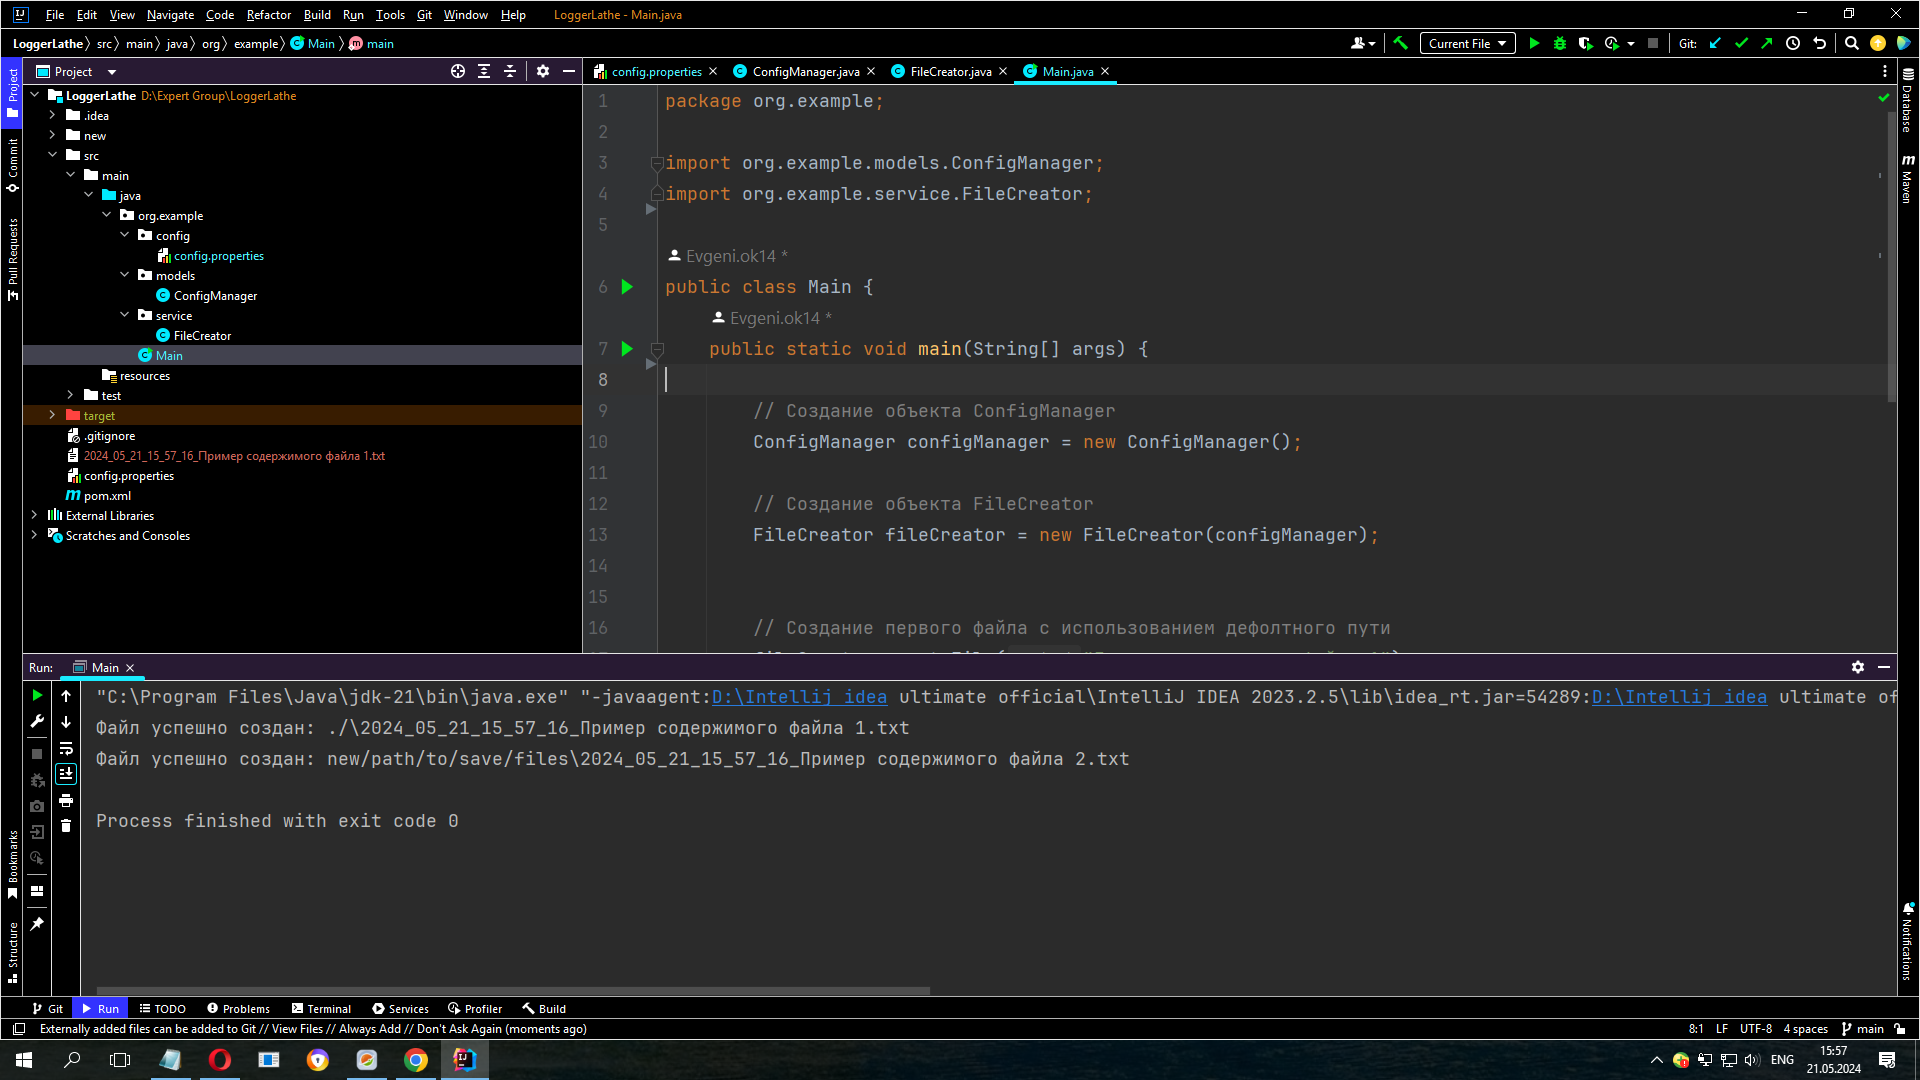
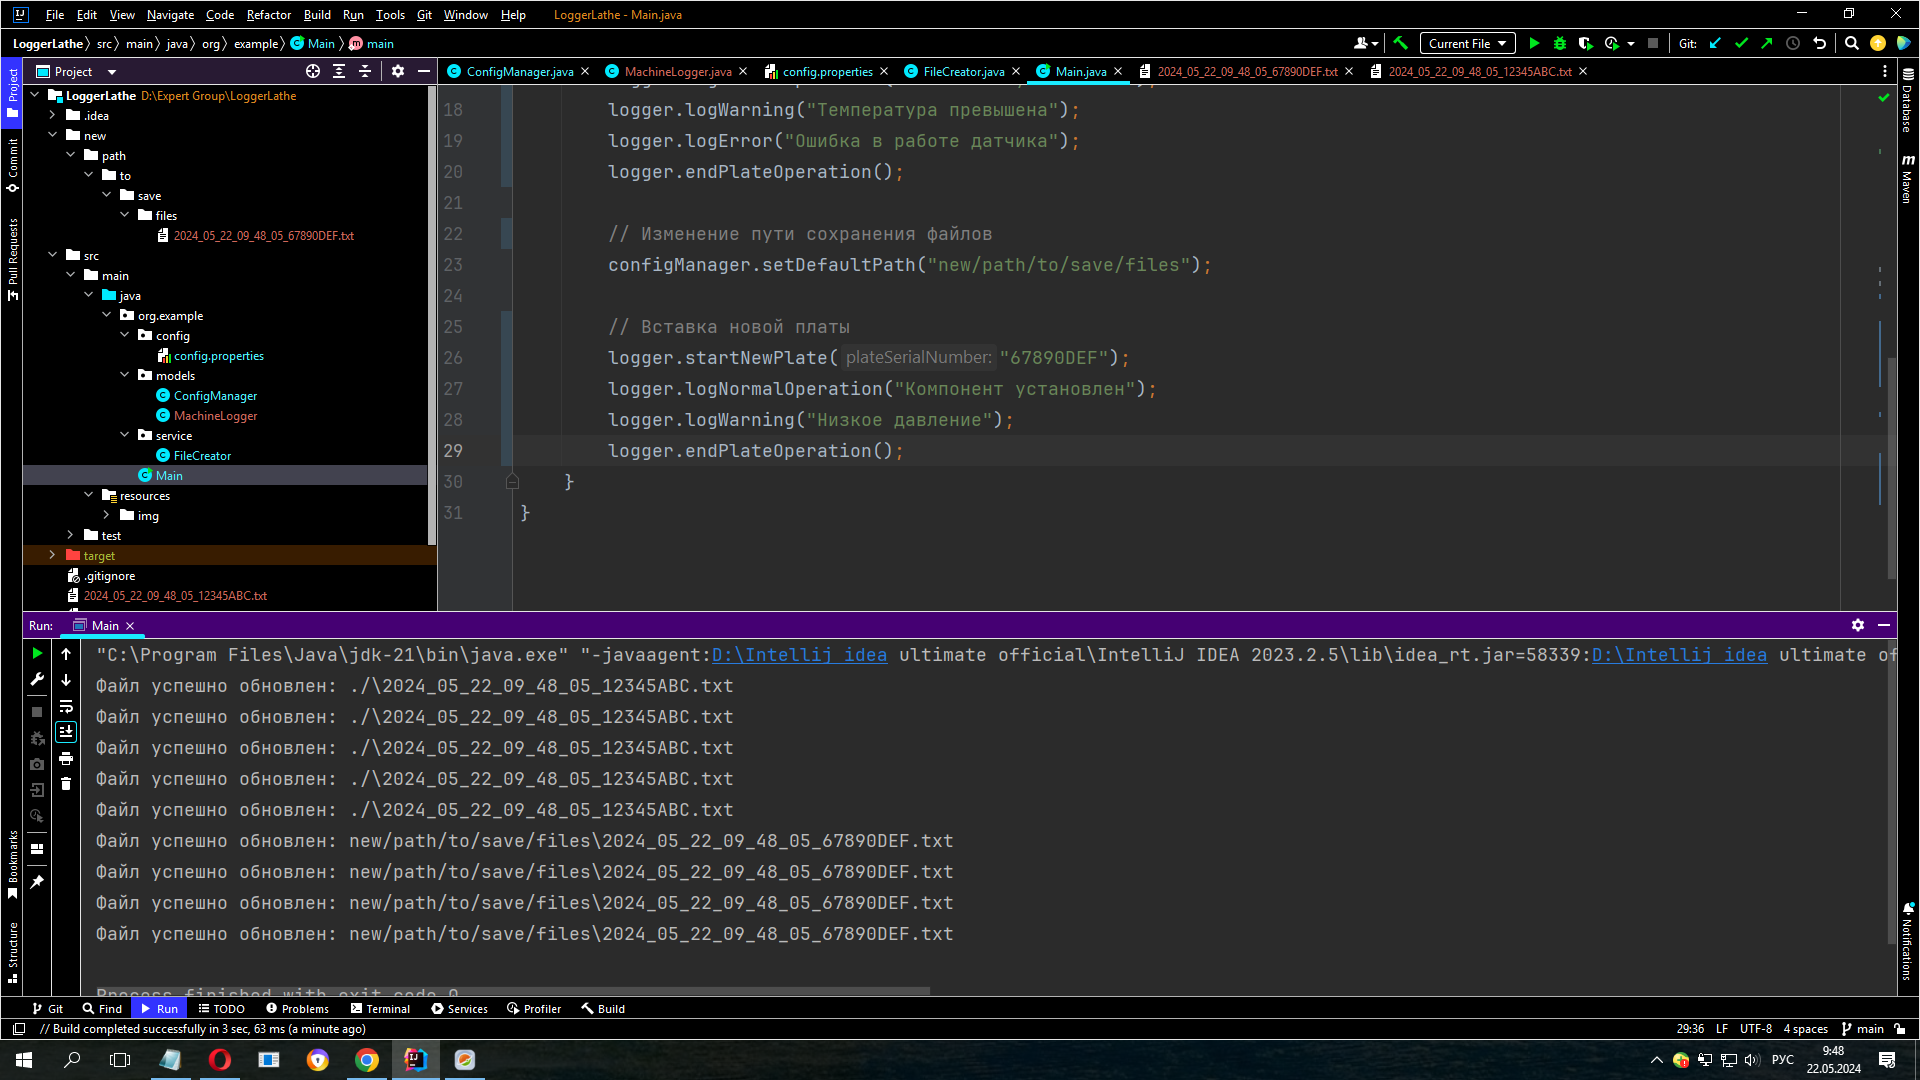
Logger Board

diff --git a/LoggerLathe/src/main/java/org/example/models/MachineLogger.java b/LoggerLathe/src/main/java/org/example/models/MachineLogger.java
@@ -1,0 +1,74 @@
+package org.example.models;
+
+import org.example.service.FileCreator; // импорт класса FileCreator
+import java.time.LocalDateTime; // библиотека представляет дату и время без часового пояса
+import java.time.format.DateTimeFormatter; // библиотека для форматирования и парсинга объектов даты и времени,
+                                          // позволяет преобразовывать объекты даты и времени в строковые представления
+                                         // и обратно.
+
+/** Класс для логирования работы станка **/
+public class MachineLogger
+{
+    //region Fields
+    private FileCreator fileCreator; // отвечает за создание и запись файлов.
+    private String currentFileName; // Строка, которая хранит имя текущего файла для логирования.
+                                   // Имя файла включает временную метку и серийный номер платы.
+    //endregion
+
+    //region Constructor
+    public MachineLogger(FileCreator fileCreator)
+    {
+        this.fileCreator = fileCreator;
+    }
+    //endregion
+
+    /** метод начала работы с платой **/
+    public void startNewPlate(String plateSerialNumber) //  передаём параметр - серийный номер платы
+    {
+        LocalDateTime now = LocalDateTime.now(); // получаем текущую дату и время
+        DateTimeFormatter formatter = DateTimeFormatter.ofPattern("yyyy_MM_dd_HH_mm_ss"); // создаём объект LocalDateTime с конкретной датой и временем
+
+        String timestamp = now.format(formatter); // форматируем эти данные в строку
+
+        currentFileName = timestamp + "_" + plateSerialNumber + ".txt"; // Создает имя файла, включающее временную метку и серийный номер платы
+        log("Плата установлена: " + plateSerialNumber + " Время: " + timestamp); // Логирует сообщение о том, что плата установлена, вызывая метод log
+    }
+
+    /** метод логирует сообщение о штатной работе **/
+    public void logNormalOperation(String message)
+    {
+        log("INFO: " + message);
+    }
+
+    /** метод логирует предупреждающие сообщения **/
+    public void logWarning(String message)
+    {
+        log("WARNING: " + message);
+    }
+
+    /** метод логирует сообщения об ошибках **/
+    public void logError(String message)
+    {
+        log("ERROR: " + message);
+    }
+
+    /** метод логирует сообщение о завершении работы с платой **/
+    public void endPlateOperation()
+    {
+        log("Операция завершена");
+        currentFileName = null; // сбрасываем значение currentFileName на null, чтобы указать, что работа с текущей платой завершена
+    }
+
+    /** метод выполняет непосредственную запись логов в файл **/
+    private void log(String message)
+    {
+        if (currentFileName != null) // если значение currentFileName установлено, то:
+        {
+            fileCreator.createFile(currentFileName, message); // вызывает метод createFile объекта fileCreator, передавая имя файла и сообщение для записи
+        }
+        else // если значение currentFileName не установлено, то:
+        {
+            System.err.println("Не установлена текущая плата для логирования"); // выводит сообщение об ошибке в консоль
+        }
+    }
+}

diff --git a/LoggerLathe/src/main/java/org/example/models/ConfigManager.java b/LoggerLathe/src/main/java/org/example/models/ConfigManager.java
@@ -5,26 +5,29 @@ import java.io.FileOutputStream;
 import java.io.IOException;
 import java.util.Properties;
 
+/** Класс управление конфигурацией **/
 public class ConfigManager
 {
-
     //region Fields
-    private static final String CONFIG_FILE = "D:/Expert Group/LoggerLathe/src/main/java/org/example/config/config.properties"; // Определение константы, которая содержит имя конфигурационного файла
 
-    private Properties properties;  // Properties в Java — это класс, который является частью стандартной библиотеки
-                                   // Java (java.util.Properties)
-                                  // Он представляет собой подкласс Hashtable
-                                 // и используется для сохранения пар ключ-значение,
-                                // где и ключи, и значения являются строками.
-                               // Этот класс широко используется для хранения конфигурационных параметров
-                              // и для загрузки этих параметров из файлов свойств (properties files)
+    // Определение константы, которая содержит имя конфигурационного файла
+    private static final String CONFIG_FILE = "D:/Expert Group/LoggerLathe/src/main/java/org/example/config/config.properties";
+
+    // Properties в Java — это класс, который является частью стандартной библиотеки Java (java.util.Properties)
+    private Properties properties; // Он представляет собой подкласс Hashtable и используется для сохранения пар ключ-значение
+                                   // где и ключи, и значения являются строками.
+                                   // Этот класс широко используется для хранения конфигурационных параметров
+                                   // и для загрузки этих параметров из файлов свойств (properties files)
     //endregion
+
     //region Constructor
+
     public ConfigManager() //  Конструктор класса
     {
         properties = new Properties(); // Инициализация объекта Properties.
         loadProperties(); //  Вызов метода loadProperties, который загружает конфигурационные параметры из файла.
     }
+
     //endregion
 
     /** метод загружает свойства из файла **/
@@ -44,8 +47,8 @@ public class ConfigManager
     public String getDefaultPath()
     {
         return properties.getProperty("default.path", "./"); // Возвращение значения свойства default.path
-                                                                          // Если свойство не найдено,
-                                                                         // возвращается значение по умолчанию ("./").
+                                                                           // Если свойство не найдено,
+                                                                           // возвращается значение по умолчанию ("./").
     }
 
     /** метод  задает значение свойства default.path  **/

diff --git a/LoggerLathe/src/main/java/org/example/service/FileCreator.java b/LoggerLathe/src/main/java/org/example/service/FileCreator.java
@@ -5,9 +5,8 @@ import java.io.BufferedWriter;
 import java.io.File;
 import java.io.FileWriter;
 import java.io.IOException;
-import java.time.LocalDateTime;
-import java.time.format.DateTimeFormatter;
 
+/** Класс создание файла **/
 public class FileCreator
 {
     //region Fields
@@ -22,38 +21,27 @@ public class FileCreator
     //endregion
 
     /** метод создания файла с заданным содержимым **/
-    public void createFile(String content)
-    {
-
-        LocalDateTime now = LocalDateTime.now(); // Получаем текущую дату и время
-
-        // Форматируем дату и время в строку
-        DateTimeFormatter formatter = DateTimeFormatter.ofPattern("yyyy_MM_dd_HH_mm_ss"); // Создает объект DateTimeFormatter
-                                                                                         // для форматирования даты и времени
-                                                                                        // в строку определенного формата
-                                                                                       // (yyyy_MM_dd_HH_mm_ss).
-        String timestamp = now.format(formatter); // Форматирует текущую дату и время в строку timestamp.
-
-        String defaultPath = configManager.getDefaultPath();  // получаем дефолтный путь из конфигурации
-
-        File directory = new File(defaultPath); // Создает объект File, представляющий директорию по этому пути
-
-        if (!directory.exists()) // Проверяет, существует ли директория
+        public void createFile(String fileName, String content)
         {
-            directory.mkdirs();// если нет, создает все необходимые поддиректории
-        }
+            String defaultPath = configManager.getDefaultPath();
+            File directory = new File(defaultPath);
 
-        String fileName = defaultPath + File.separator + timestamp + "_" + content + ".txt";  // Создаем имя файла
+            if (!directory.exists())
+            {
+                directory.mkdirs();
+            }
 
-        try (BufferedWriter writer = new BufferedWriter(new FileWriter(fileName))) { // Записываем строку в файл
-            writer.write("Дата и время создания файла: " + timestamp);
-            writer.newLine(); // Переход на новую строку
-            writer.write(content); // запись содержимого в файл
-            System.out.println("Файл успешно создан: " + fileName); // вывод в терминал, для проверки
-        }
-        catch (IOException e)
-        {
-            System.err.println("Произошла ошибка при создании файла: " + e.getMessage());
+            String filePath = defaultPath + File.separator + fileName;
+
+            try (BufferedWriter writer = new BufferedWriter(new FileWriter(filePath, true))) { // Открытие файла в режиме добавления (append)
+                writer.write(content);
+                writer.newLine();
+                System.out.println("Файл успешно обновлен: " + filePath);
+            } catch (IOException e) {
+                System.err.println("Произошла ошибка при обновлении файла: " + e.getMessage());
+            }
         }
     }
-}
+
+
+

diff --git a/LoggerLathe/src/main/java/org/example/Main.java b/LoggerLathe/src/main/java/org/example/Main.java
@@ -1,29 +1,31 @@
 package org.example;
 
 import org.example.models.ConfigManager;
+import org.example.models.MachineLogger;
 import org.example.service.FileCreator;
 
 public class Main
 {
     public static void main(String[] args)
     {
-
-        // Создание объекта ConfigManager
         ConfigManager configManager = new ConfigManager();
-
-        // Создание объекта FileCreator
         FileCreator fileCreator = new FileCreator(configManager);
+        MachineLogger logger = new MachineLogger(fileCreator);
 
+        // Пример использования
+        logger.startNewPlate("12345ABC");
+        logger.logNormalOperation("Компонент установлен");
+        logger.logWarning("Температура превышена");
+        logger.logError("Ошибка в работе датчика");
+        logger.endPlateOperation();
 
-        // Создание первого файла с использованием дефолтного пути
-        fileCreator.createFile("Пример содержимого файла 1");
-
-
-        // Установка нового пути для сохранения файлов
+        // Изменение пути сохранения файлов
         configManager.setDefaultPath("new/path/to/save/files");
 
-        // Создание второго файла с использованием нового пути
-        fileCreator.createFile("Пример содержимого файла 2");
-
+        // Вставка новой платы
+        logger.startNewPlate("67890DEF");
+        logger.logNormalOperation("Компонент установлен");
+        logger.logWarning("Низкое давление");
+        logger.endPlateOperation();
     }
 }
